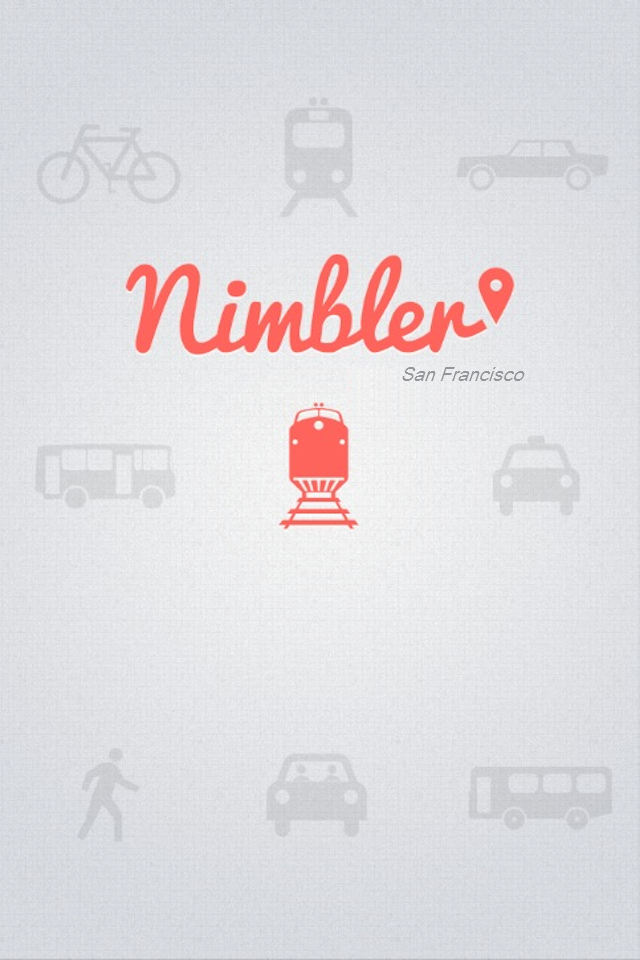
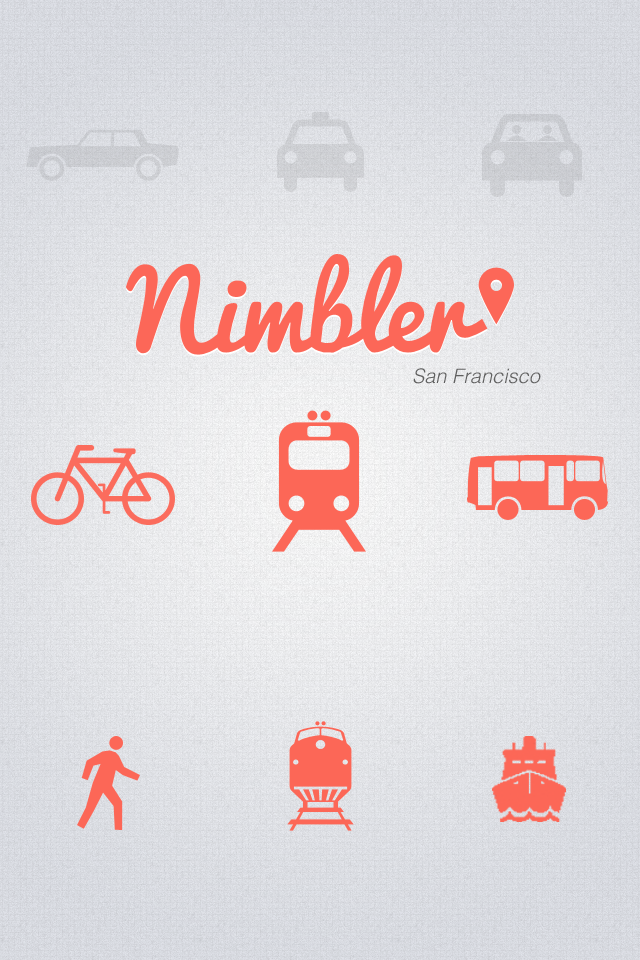
Fixed DE-286. Added Splash screen images. Changed Exclude Buttons Images. Some minor code Changes.

diff --git a/nc_AppDelegate.m b/nc_AppDelegate.m
@@ -134,12 +134,14 @@ FeedBackForm *fbView;
     return YES;    // If Automated testing with alternative persistent store, skip NC_AppDelegate altogether and do all setup in test area
 #endif
     [self unzipZipFileToApplicationDocumentDirectory];    NSSetUncaughtExceptionHandler(&uncaughtExceptionHandler);
-    
+#if PREFS_DEFAULT_IS_PUSH_ENABLE
     [[UIApplication sharedApplication]
      registerForRemoteNotificationTypes:
      (UIRemoteNotificationTypeAlert |
       UIRemoteNotificationTypeBadge |
       UIRemoteNotificationTypeSound)];
+#endif
+   
     
     prefs = [NSUserDefaults standardUserDefaults];
     
@@ -520,6 +522,14 @@ FeedBackForm *fbView;
     
     // Check the date and if it is not today's date we will make request.
     // Previously comparing string with date so changed the logic to compare date.
+    
+    // Part Of DE-286 Fixed.
+    BOOL isTokenUpdated = [[NSUserDefaults standardUserDefaults] boolForKey:DEVICE_TOKEN_UPDATED];
+    if(!isTokenUpdated && [[NSUserDefaults standardUserDefaults] objectForKey:DUMMY_TOKEN_ID]){
+        [self updateDeviceToken];
+    }
+    
+    
     NSDate *todayDate = dateOnlyFromDate([NSDate date]);
     //    NSDateFormatter *dateFormatter = [[NSDateFormatter alloc] init];
     //    [dateFormatter setDateStyle:NSDateFormatterShortStyle];
@@ -957,8 +967,12 @@ FeedBackForm *fbView;
                     }
                 }
                 else if([strRequestURL isEqualToString:updateDeviceTokenURL]){
-                    [[NSUserDefaults standardUserDefaults] setObject:nil forKey:DUMMY_TOKEN_ID];
-                    [[NSUserDefaults standardUserDefaults] synchronize];
+                    NSDictionary *tempResponseDictionary = [rkParser objectFromString:[response bodyAsString] error:nil];
+                    if([[tempResponseDictionary objectForKey:RESPONSE_CODE] intValue] != RESPONSE_RETRY){
+                        [[NSUserDefaults standardUserDefaults] setObject:nil forKey:DUMMY_TOKEN_ID];
+                        [[NSUserDefaults standardUserDefaults] setBool:YES forKey:DEVICE_TOKEN_UPDATED];
+                        [[NSUserDefaults standardUserDefaults] synchronize];
+                    }
                 }
             }
         }
@@ -972,14 +986,16 @@ FeedBackForm *fbView;
 #pragma mark Nimbler push notification
 
 - (void)applicationDidFinishLaunching:(UIApplication *)application {
-    NIMLOG_PERF1(@"Registering for push notifications...");
+#if PREFS_DEFAULT_IS_PUSH_ENABLE
     [[UIApplication sharedApplication]
      registerForRemoteNotificationTypes:
      (UIRemoteNotificationTypeAlert |
       UIRemoteNotificationTypeBadge |
       UIRemoteNotificationTypeSound)];
+#endif
 }
 
+// Part Of DE-286 Fixed.
 - (void) updateDeviceToken{
     RKClient *client = [RKClient clientWithBaseURL:TRIP_PROCESS_URL];
     [RKClient setSharedClient:client];
@@ -987,7 +1003,6 @@ FeedBackForm *fbView;
                             
                             DEVICE_TOKEN, [[nc_AppDelegate sharedInstance] deviceTokenString],
                             APPLICATION_TYPE,[[nc_AppDelegate sharedInstance] getAppTypeFromBundleId],DUMMY_TOKEN_ID,[[NSUserDefaults standardUserDefaults] valueForKey:DUMMY_TOKEN_ID],
-                            // TODO -- add bicycle settings saving as needed
                             nil];
     NSString *updateURL = [UPDATE_DEVICE_TOKEN appendQueryParams:params];
     updateDeviceTokenURL = updateURL;
@@ -996,14 +1011,15 @@ FeedBackForm *fbView;
 - (void)application:(UIApplication *)app didRegisterForRemoteNotificationsWithDeviceToken:(NSData *)deviceToken {
     @try {
         NSString *token = [[[[deviceToken description] stringByReplacingOccurrencesOfString: @"<" withString: NULL_STRING] stringByReplacingOccurrencesOfString: @">" withString: NULL_STRING] stringByReplacingOccurrencesOfString: @" " withString: @""];
+        [prefs setObject:token forKey:DEVICE_TOKEN];
+        [prefs synchronize];
+        // Part Of DE-286 Fixed.
         if([prefs objectForKey:DUMMY_TOKEN_ID]){
             [self updateDeviceToken];
         }
         NIMLOG_PERF2(@"deviceTokenString: %@",token);
         [UIApplication sharedApplication].applicationIconBadgeNumber = BADGE_COUNT_ZERO;
-        [prefs setObject:token forKey:DEVICE_TOKEN];
-        [prefs synchronize];
-        [[UserPreferance userPreferance] performSelector:@selector(saveToServer) withObject:nil afterDelay:2.0];
+        [[UserPreferance userPreferance] performSelector:@selector(saveToServer) withObject:nil afterDelay:3.0];
         logEvent(FLURRY_PUSH_AVAILABLE,
                  FLURRY_NOTIFICATION_TOKEN, token,
                  nil, nil, nil, nil, nil, nil);
@@ -1017,6 +1033,7 @@ FeedBackForm *fbView;
 
 - (void)application:(UIApplication *)app didFailToRegisterForRemoteNotificationsWithError:(NSError *)err {
     @try {
+        [self updateDeviceToken];
         NSString *str = [NSString stringWithFormat: @"Error: %@", err];
         NIMLOG_ERR1(@"didFail To Register For RemoteNotifications With Error: %@",str);
         prefs = [NSUserDefaults standardUserDefaults];
@@ -1265,8 +1282,6 @@ FeedBackForm *fbView;
         return deviceToken;
     }
     else{
-        UserPreferance* userPrefs = [UserPreferance userPreferance];
-        userPrefs.pushEnable = NO;
         return [prefs objectForKey:DUMMY_TOKEN_ID];   
     }
 }

diff --git a/ViewController/RouteOptionsViewController.m b/ViewController/RouteOptionsViewController.m
@@ -222,9 +222,11 @@ int const ROUTE_OPTIONS_TABLE_HEIGHT_IPHONE5 = 450;
     [[self navigationController] popViewControllerAnimated:NO];
 }
 
+
 -(void) toggleExcludeButton:(id)sender{
+   
     NIMLOG_PERF2(@"toggleExcludeButton started");
-    
+    [activityIndicator startAnimating];
     // DE-293 Fixed
     [noItineraryWarning setHidden:YES];
     setWarningHidden = true;
@@ -239,16 +241,15 @@ int const ROUTE_OPTIONS_TABLE_HEIGHT_IPHONE5 = 450;
     if([[RouteExcludeSettings latestUserSettings] settingForKey:btn.titleLabel.text] == SETTING_EXCLUDE_ROUTE){
         [[RouteExcludeSettings latestUserSettings] changeSettingTo:SETTING_INCLUDE_ROUTE forKey:btn.titleLabel.text];
         toggledSetting.setting = SETTING_INCLUDE_ROUTE;
-        [btn setBackgroundImage:[UIImage imageNamed:@"pressed1.png"] forState:UIControlStateNormal];
+        [btn setBackgroundImage:[UIImage imageNamed:@"Updated_Pressed.png"] forState:UIControlStateNormal];
         [btn setTitleColor:[UIColor NIMBLER_RED_FONT_COLOR] forState:UIControlStateNormal];
     }
     else{
         [[RouteExcludeSettings latestUserSettings] changeSettingTo:SETTING_EXCLUDE_ROUTE forKey:btn.titleLabel.text];
         toggledSetting.setting = SETTING_EXCLUDE_ROUTE;
-        [btn setBackgroundImage:nil forState:UIControlStateNormal];
-        [btn setTitleColor:[UIColor GRAY_FONT_COLOR] forState:UIControlStateNormal];
+        [btn setBackgroundImage:[UIImage imageNamed:@"Updated_UnPressed.png"] forState:UIControlStateNormal];
+        [btn setTitleColor:[UIColor LIGHT_GRAY_FONT_COLOR] forState:UIControlStateNormal];
     }
-
     // Update sorted itineraries with new exclusions
     if (!planRequestParameters) {
         logError(@"RouteOptionsViewController -> toggleExcludeButton",
@@ -275,7 +276,6 @@ int const ROUTE_OPTIONS_TABLE_HEIGHT_IPHONE5 = 450;
         setWarningHidden = true;
     }
     NIMLOG_PERF2(@"done preparing sortedItineraries");
-    [activityIndicator startAnimating];
     MoreItineraryStatus reqStatus = [planStore requestMoreItinerariesIfNeeded:self.plan parameters:newParameters];
     if (reqStatus == NO_MORE_ITINERARIES_REQUESTED && [[plan sortedItineraries] count] == 0) {
         // if no itineraries showing and no more requests made, show warning 
@@ -678,11 +678,11 @@ int const ROUTE_OPTIONS_TABLE_HEIGHT_IPHONE5 = 450;
         [btnAgency setTitle:routeExcludeSetting.key forState:UIControlStateNormal];
         [btnAgency.titleLabel setFont:[UIFont fontWithName:@"Helvetica-Bold" size:12.0]];
         if([[RouteExcludeSettings latestUserSettings] settingForKey:routeExcludeSetting.key] == SETTING_EXCLUDE_ROUTE){
-            [btnAgency setBackgroundImage:nil forState:UIControlStateNormal];
-            [btnAgency setTitleColor:[UIColor GRAY_FONT_COLOR] forState:UIControlStateNormal];
+            [btnAgency setBackgroundImage:[UIImage imageNamed:@"Updated_UnPressed.png"] forState:UIControlStateNormal];
+            [btnAgency setTitleColor:[UIColor LIGHT_GRAY_FONT_COLOR] forState:UIControlStateNormal];
         }
         else{
-            [btnAgency setBackgroundImage:[UIImage imageNamed:@"pressed1.png"] forState:UIControlStateNormal];
+            [btnAgency setBackgroundImage:[UIImage imageNamed:@"Updated_Pressed.png"] forState:UIControlStateNormal];
             [btnAgency setTitleColor:[UIColor NIMBLER_RED_FONT_COLOR] forState:UIControlStateNormal];
         }
         [btnAgency addTarget:self action:@selector(toggleExcludeButton:) forControlEvents:UIControlEventTouchUpInside];

diff --git a/SupportingFiles/Constants.h b/SupportingFiles/Constants.h
@@ -89,10 +89,10 @@
 #define ALERT_COUNT           @"alertCount"
 #define MAXIMUM_WALK_DISTANCE @"maxDistance"
 #define UPDATE_SETTING_REQ    @"users/preferences/update"
-#define UPDATE_DEVICE_TOKEN   @"/preferences/update/token"
+#define UPDATE_DEVICE_TOKEN   @"users/preferences/update/token"
 
 // UserPreferernce (user settings) defaults, max, and min
-#define PREFS_DEFAULT_IS_PUSH_ENABLE YES
+#define PREFS_DEFAULT_IS_PUSH_ENABLE NO
 #define PREFS_DEFAULT_PUSH_NOTIFICATION_THRESHOLD 5
 
 #define URGENT_NOTIFICATION_DEFAULT_VALUE   1
@@ -272,6 +272,7 @@
 #define RESPONSE_SUCCESSFULL 105
 #define RESPONSE_DATA_NOT_EXIST 107
 #define RESPONSE_INVALID_REQUEST 106
+#define RESPONSE_RETRY 100
 
 // Float thresholds
 #define TINY_FLOAT 0.000001
@@ -353,6 +354,7 @@
 #define DUMMY_TOKEN_ID    @"dummyTokenId"
 #define USER_EMAIL        @"eMailId"
 #define TWEET_COUNT       @"tweetCount"
+#define DEVICE_TOKEN_UPDATED @"deviceTokenUpdated"
 
 // Tweeter Parameter
 #define LATEST_TWEETS_REQ       @"advisories/latest"

diff --git a/Model/PlanStore.m b/Model/PlanStore.m
@@ -292,6 +292,7 @@
             NIMLOG_PERF2(@"Legs Response Received");
             RKJSONParserJSONKit* parser1 = [RKJSONParserJSONKit new];
             NSDictionary *legsDictionary = [parser1 objectFromString:[response bodyAsString] error:nil];
+            NIMLOG_PERF2(@"legsDictionary=%@",legsDictionary);
             self.stopTimesLoadSuccessfully = true;
             if(!legsDictionary)
                 return;
@@ -300,6 +301,8 @@
             NSArray *arrItineraries = [legsDictionary objectForKey:@"lstItineraries"];
             for(int i=0;i<[arrItineraries count];i++){
                 NSDictionary *itineraryDictionary = [arrItineraries objectAtIndex:i];
+                if(!itineraryDictionary)
+                    continue;
                 NSString *legId = [itineraryDictionary objectForKey:@"id"];
                 //Part of DE-291 Fixed
                 if(legLegIdDictionary){

diff --git a/Model/RealTimeManager.m b/Model/RealTimeManager.m
@@ -38,7 +38,10 @@ static RealTimeManager* realTimeManager;
     plan = currentPlan;
     requestParameters = planrequestParameters;
     originalTripDate = planrequestParameters.originalTripDate;
-    
+    if([plan haveOnlyUnScheduledSorteditineraries]){
+        [[nc_AppDelegate sharedInstance].toFromViewController.routeOptionsVC.activityIndicator stopAnimating];
+        return;
+    }
 //    for(int i=0;i<[[plan itineraries] count];i++){
 //        Itinerary *itinerary = [[[plan itineraries] allObjects] objectAtIndex:i];
 //        for(int j=0;j<[[itinerary sortedLegs] count];j++){

diff --git a/SupportingFiles/UIConstants.h b/SupportingFiles/UIConstants.h
@@ -110,6 +110,7 @@
 #define GRAY_FONT_COLOR colorWithRed:85.0/255.0 green:85.0/255.0 blue:85.0/255.0 alpha:1.0
 
 #define CELL_BACKGROUND_ROUTE_OPTION_VIEW colorWithRed:109.0/255.0 green:109.0/255.0 blue:109.0/255.0 alpha:0.04
+#define LIGHT_GRAY_FONT_COLOR colorWithRed:170.0/255.0 green:170.0/255.0 blue:170.0/255.0 alpha:1.0
 
 // UIanimation motion
 #define ANIMATION_STANDART_MOTION_SPEED 0.3

diff --git a/Model/Plan.m b/Model/Plan.m
@@ -866,6 +866,14 @@
     return false;
 }
 
+- (BOOL) haveOnlyUnScheduledSorteditineraries{
+    for (Itinerary* itin in [self sortedItineraries]) {
+        if (![itin haveOnlyUnScheduledLeg]) {
+            return false;
+        }
+    }
+    return true;
+}
 // Returns true if all the legs in all the itineraries are unscheduled
 - (BOOL)haveOnlyUnscheduledItineraries
 {

diff --git a/Model/Plan.h b/Model/Plan.h
@@ -158,5 +158,6 @@
 
 - (BOOL)containsUnscheduledLeg;
 -(void) changeUnscheduledItineraryTime:(NSDate *)tripDate;
+- (BOOL) haveOnlyUnScheduledSorteditineraries;
 @end
 

diff --git a/nc_AppDelegate.h b/nc_AppDelegate.h
@@ -120,5 +120,6 @@
 - (NSString *)getAppTypeFromBundleId;
 - (NSString *)getAgencyIdsString;
 - (NSString *) deviceTokenString;
+- (void) updateDeviceToken;
 
 @end
